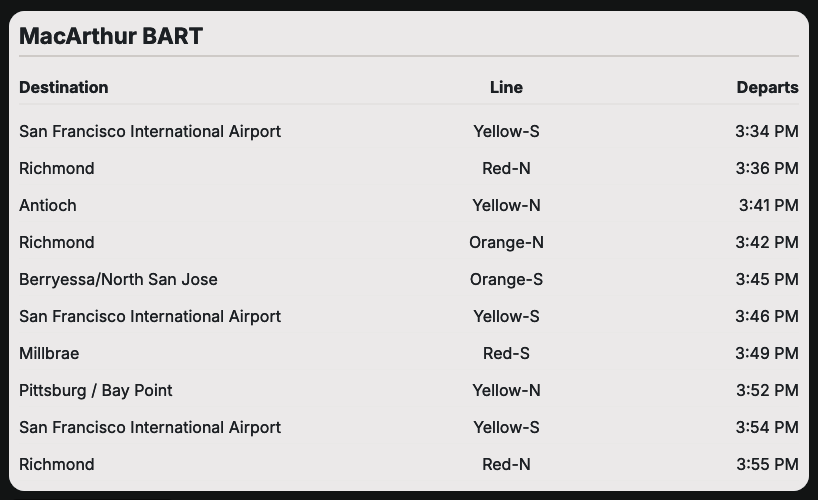
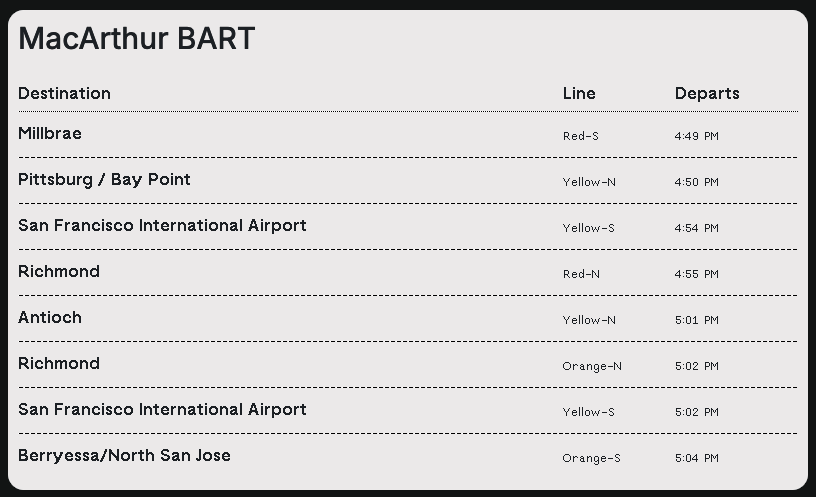
update form field stopcode for polling url

diff --git a/src/markup/quadrant.html b/src/markup/quadrant.html
@@ -1,126 +1,77 @@
-<style>
-    .bart-wrapper {
-        font-family: Inter, sans-serif;
-    }
-
-    .bart-title {
-        font-size: 1.4rem;
-        font-weight: 700;
-        margin-bottom: 6px;
-    }
-
-    .bart-title-line {
-        height: 2px;
-        width: 100%;
-        background: #555555;   /* solid black so it always shows */
-        margin-bottom: 14px;
-    }
-
-    .bart-table {
-        display: flex;
-        flex-direction: column;
-        gap: 4px;
-    }
-
-    .bart-row {
-        display: flex;
-        justify-content: space-between;
-        padding: 6px 0;
-        border-bottom: 1px solid rgba(255,255,255,0.1);
-    }
-
-    .bart-header {
-        font-weight: 700;
-        border-bottom: 2px solid rgba(255,255,255,0.4);
-        padding-bottom: 6px;
-        margin-bottom: 6px;
-    }
-
-    .col-dest {
-        flex: 2;
-    }
-
-    .col-line {
-        flex: 1;
-        text-align: center;
-    }
-
-    .col-time {
-        flex: 1;
-        text-align: right;
-    }
-
-</style>
-
-<div class="layout">
+<div class="layout layout--col layout--top layout--stretch">
     <div class="columns">
         <div class="column">
-            <div class="markdown bart-wrapper">
-                {% assign dir = trmnl.plugin_settings.custom_fields_values.dir %}
-                {% assign limit = trmnl.plugin_settings.custom_fields_values.limit | times: 1 %}
-                {% assign visits = ServiceDelivery.StopMonitoringDelivery.MonitoredStopVisit %}
-                {% if visits == nil or visits == empty %}
-                {% assign visits = ServiceDelivery.StopMonitoringDelivery[0].MonitoredStopVisit %}
+
+            {% assign dir = trmnl.plugin_settings.custom_fields_values.dir %}
+            {% assign limit = 2 %}
+            {% assign stopname = trmnl.plugin_settings.custom_fields_values.stopname %}
+
+            {% assign visits = ServiceDelivery.StopMonitoringDelivery.MonitoredStopVisit %}
+            {% if visits == nil or visits == empty %}
+            {% assign visits = ServiceDelivery.StopMonitoringDelivery[0].MonitoredStopVisit %}
+            {% endif %}
+
+            <span class="title title--large">{{ stopname }} BART</span>
+            <div class="divider"></div>
+
+            {% if visits and visits.size > 0 %}
+
+            <table class="table table--base" data-table-limit="true">
+                <thead>
+                <tr>
+                    <th><span class="title title--small">Destination</span></th>
+                    <th><span class="title title--small">Line</span></th>
+                    <th><span class="title title--small text--right">Departs</span></th>
+                </tr>
+                </thead>
+
+                <tbody>
+                {% assign shown = 0 %}
+
+                {% for v in visits %}
+                {% assign D = v.MonitoredVehicleJourney %}
+
+                {% if D.LineRef %}
+                {% if dir == "" or D.DirectionRef == dir %}
+
+                {% assign t = D.MonitoredCall.ExpectedDepartureTime %}
+                {% if t == nil or t == "" %}
+                {% assign t = D.MonitoredCall.ExpectedArrivalTime %}
                 {% endif %}
 
-                {% if visits and visits.size > 0 %}
-                {% for v in visits %}
-                {% if v.MonitoredVehicleJourney.LineRef != nil %}
-                {% assign stopname = v.MonitoredVehicleJourney.MonitoredCall.StopPointName %}
+                <tr>
+                    <td>
+                      <span class="label" data-clamp="1">
+                        {{ D.MonitoredCall.DestinationDisplay }}
+                      </span>
+                    </td>
+
+                    <td>
+                      <span class="label label--small">
+                        {{ D.LineRef }}
+                      </span>
+                    </td>
+
+                    <td>
+                      <span class="label label--small text--right">
+                        {{ t | date: "%s" | plus: 0 | minus: 28800 | date: "%-I:%M %p" }}
+                      </span>
+                    </td>
+                </tr>
+
+                {% assign shown = shown | plus: 1 %}
+                {% if shown >= limit %}{% break %}{% endif %}
+
+                {% endif %}
                 {% endif %}
                 {% endfor %}
+                </tbody>
+            </table>
 
-                <div class="bart-title">
-                    {{ stopname }} BART
-                </div>
-                <div class="bart-title-line"></div>
+            {% else %}
+            <span class="label">No upcoming trains</span>
+            {% endif %}
 
-                <div class="bart-table">
-
-                    <!-- Header row -->
-                    <div class="bart-row bart-header">
-                        <div class="col-dest">Destination</div>
-                        <div class="col-line">Line</div>
-                        <div class="col-time">Departs</div>
-                    </div>
-
-                    {% assign shown = 0 %}
-                    {% for v in visits %}
-                    {% assign D = v.MonitoredVehicleJourney %}
-                    {% assign t = D.MonitoredCall.ExpectedDepartureTime %}
-                    {% if t == nil or t == "" %}
-                    {% assign t = D.MonitoredCall.ExpectedArrivalTime %}
-                    {% endif %}
-
-                    {% if D.LineRef != nil and dir == "" or D.DirectionRef == dir %}
-
-                    <div class="bart-row">
-                        <div class="col-dest">
-                            {{ D.MonitoredCall.DestinationDisplay }}
-                        </div>
-
-                        <div class="col-line">
-                            {{ D.LineRef }}
-                        </div>
-
-                        <div class="col-time">
-                            {{ t | date: "%s" | plus: 0 | minus: 28800 | date: "%-I:%M %p" }}
-                        </div>
-                    </div>
-
-                    {% assign shown = shown | plus: 1 %}
-                    {% if shown >= limit %}{% break %}{% endif %}
-                    {% endif %}
-                    {% endfor %}
-
-                </div>
-
-                {% else %}
-                <div class="bart-title">BART</div>
-                <div class="bart-table">No upcoming trains</div>
-                {% endif %}
-
-            </div>
         </div>
     </div>
 </div>

diff --git a/src/markup/half-vert.html b/src/markup/half-vert.html
@@ -3,14 +3,8 @@
         <div class="column">
 
             {% assign dir = trmnl.plugin_settings.custom_fields_values.dir %}
-            {% assign limit = 2 %}
-
-            {%- comment -%}
-            Recommended: store "code|name" in the select value, e.g. "900309|MacArthur"
-            {%- endcomment -%}
-            {% assign stop_parts = trmnl.plugin_settings.custom_fields_values.stopcode | split: "|" %}
-            {% assign stopcode = stop_parts[0] %}
-            {% assign stopname = stop_parts[1] | default: "BART" %}
+            {% assign limit = 7 %}
+            {% assign stopname = trmnl.plugin_settings.custom_fields_values.stopname %}
 
             {% assign visits = ServiceDelivery.StopMonitoringDelivery.MonitoredStopVisit %}
             {% if visits == nil or visits == empty %}
@@ -37,10 +31,6 @@
                 {% for v in visits %}
                 {% assign D = v.MonitoredVehicleJourney %}
 
-                {%- comment -%}
-                Filter out "ghost" entries: require LineRef, and then apply direction filter.
-                Liquid precedence is weird; do it nested to be safe.
-                {%- endcomment -%}
                 {% if D.LineRef %}
                 {% if dir == "" or D.DirectionRef == dir %}
 
@@ -55,11 +45,13 @@
                         {{ D.MonitoredCall.DestinationDisplay }}
                       </span>
                     </td>
+
                     <td>
                       <span class="label label--small">
                         {{ D.LineRef }}
                       </span>
                     </td>
+
                     <td>
                       <span class="label label--small text--right">
                         {{ t | date: "%s" | plus: 0 | minus: 28800 | date: "%-I:%M %p" }}
@@ -68,9 +60,7 @@
                 </tr>
 
                 {% assign shown = shown | plus: 1 %}
-                {% if shown >= limit %}
-                {% break %}
-                {% endif %}
+                {% if shown >= limit %}{% break %}{% endif %}
 
                 {% endif %}
                 {% endif %}

diff --git a/src/markup/full.html b/src/markup/full.html
@@ -4,13 +4,7 @@
 
             {% assign dir = trmnl.plugin_settings.custom_fields_values.dir %}
             {% assign limit = 8 %}
-
-            {%- comment -%}
-            Recommended: store "code|name" in the select value, e.g. "900309|MacArthur"
-            {%- endcomment -%}
-            {% assign stop_parts = trmnl.plugin_settings.custom_fields_values.stopcode | split: "|" %}
-            {% assign stopcode = stop_parts[0] %}
-            {% assign stopname = stop_parts[1] | default: "BART" %}
+            {% assign stopname = trmnl.plugin_settings.custom_fields_values.stopname %}
 
             {% assign visits = ServiceDelivery.StopMonitoringDelivery.MonitoredStopVisit %}
             {% if visits == nil or visits == empty %}
@@ -37,10 +31,6 @@
                 {% for v in visits %}
                 {% assign D = v.MonitoredVehicleJourney %}
 
-                {%- comment -%}
-                Filter out "ghost" entries: require LineRef, and then apply direction filter.
-                Liquid precedence is weird; do it nested to be safe.
-                {%- endcomment -%}
                 {% if D.LineRef %}
                 {% if dir == "" or D.DirectionRef == dir %}
 
@@ -55,11 +45,13 @@
                         {{ D.MonitoredCall.DestinationDisplay }}
                       </span>
                     </td>
+
                     <td>
                       <span class="label label--small">
                         {{ D.LineRef }}
                       </span>
                     </td>
+
                     <td>
                       <span class="label label--small text--right">
                         {{ t | date: "%s" | plus: 0 | minus: 28800 | date: "%-I:%M %p" }}
@@ -68,9 +60,7 @@
                 </tr>
 
                 {% assign shown = shown | plus: 1 %}
-                {% if shown >= limit %}
-                {% break %}
-                {% endif %}
+                {% if shown >= limit %}{% break %}{% endif %}
 
                 {% endif %}
                 {% endif %}

diff --git a/src/markup/half-horiz.html b/src/markup/half-horiz.html
@@ -4,13 +4,7 @@
 
             {% assign dir = trmnl.plugin_settings.custom_fields_values.dir %}
             {% assign limit = 2 %}
-
-            {%- comment -%}
-            Recommended: store "code|name" in the select value, e.g. "900309|MacArthur"
-            {%- endcomment -%}
-            {% assign stop_parts = trmnl.plugin_settings.custom_fields_values.stopcode | split: "|" %}
-            {% assign stopcode = stop_parts[0] %}
-            {% assign stopname = stop_parts[1] | default: "BART" %}
+            {% assign stopname = trmnl.plugin_settings.custom_fields_values.stopname %}
 
             {% assign visits = ServiceDelivery.StopMonitoringDelivery.MonitoredStopVisit %}
             {% if visits == nil or visits == empty %}
@@ -37,10 +31,6 @@
                 {% for v in visits %}
                 {% assign D = v.MonitoredVehicleJourney %}
 
-                {%- comment -%}
-                Filter out "ghost" entries: require LineRef, and then apply direction filter.
-                Liquid precedence is weird; do it nested to be safe.
-                {%- endcomment -%}
                 {% if D.LineRef %}
                 {% if dir == "" or D.DirectionRef == dir %}
 
@@ -55,11 +45,13 @@
                         {{ D.MonitoredCall.DestinationDisplay }}
                       </span>
                     </td>
+
                     <td>
                       <span class="label label--small">
                         {{ D.LineRef }}
                       </span>
                     </td>
+
                     <td>
                       <span class="label label--small text--right">
                         {{ t | date: "%s" | plus: 0 | minus: 28800 | date: "%-I:%M %p" }}
@@ -68,9 +60,7 @@
                 </tr>
 
                 {% assign shown = shown | plus: 1 %}
-                {% if shown >= limit %}
-                {% break %}
-                {% endif %}
+                {% if shown >= limit %}{% break %}{% endif %}
 
                 {% endif %}
                 {% endif %}
